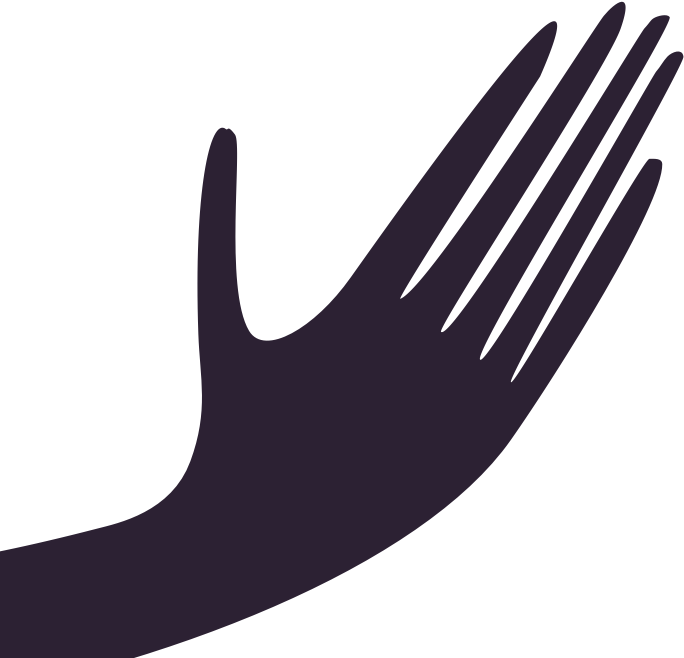
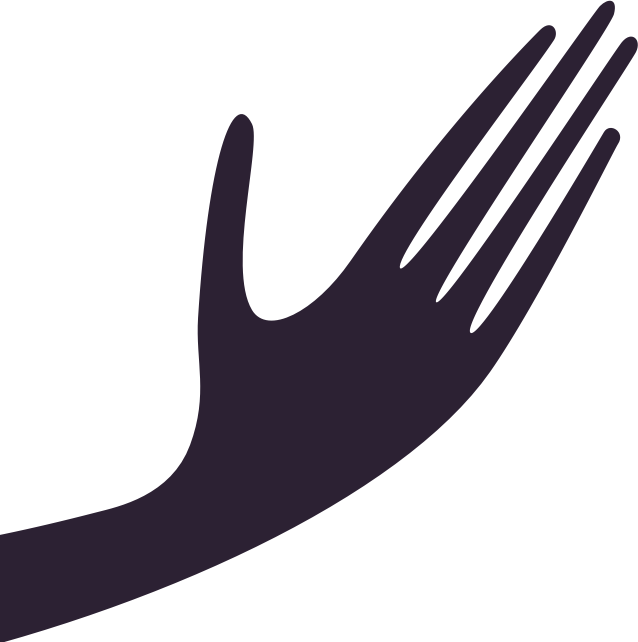
🔧 👋 Fix hand images (#104)
(Look how it has the correct number of fingers now.) Updates both hand graphic and logo.

diff --git a/app/components/__tests__/background-container.test.tsx b/app/components/__tests__/background-container.test.tsx
@@ -4,7 +4,7 @@ import { shallow } from "enzyme";
 
 import { BackgroundContainer } from "components";
 
-describe("Icon", () => {
+describe("BackgroundContainer", () => {
   it("renders correctly", () => {
     const component = shallow(
       <BackgroundContainer>

diff --git a/app/components/background-modal.tsx b/app/components/background-modal.tsx
@@ -44,7 +44,7 @@ const styles = StyleSheet.create({
   imageHand: {
     flex: 1,
     width: 360,
-    height: 340,
+    height: 360,
     bottom: 0,
     left: -10,
     opacity: 0.2,
